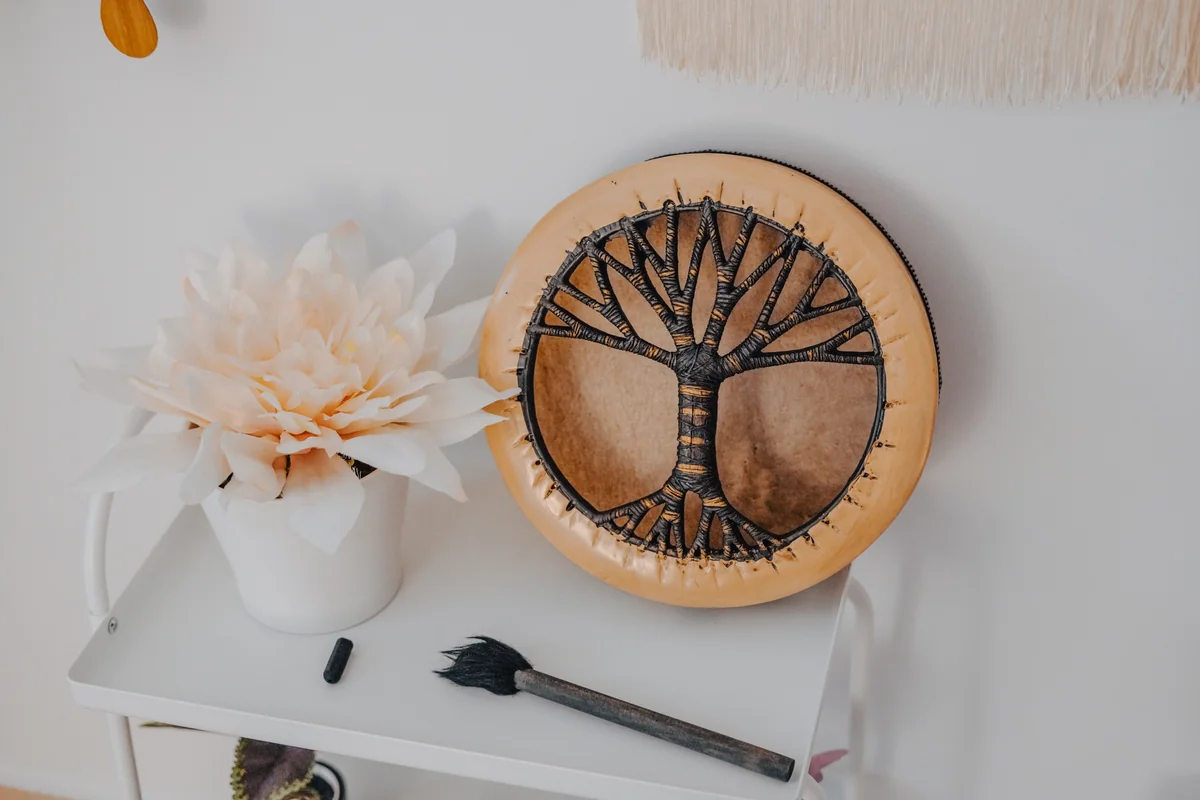
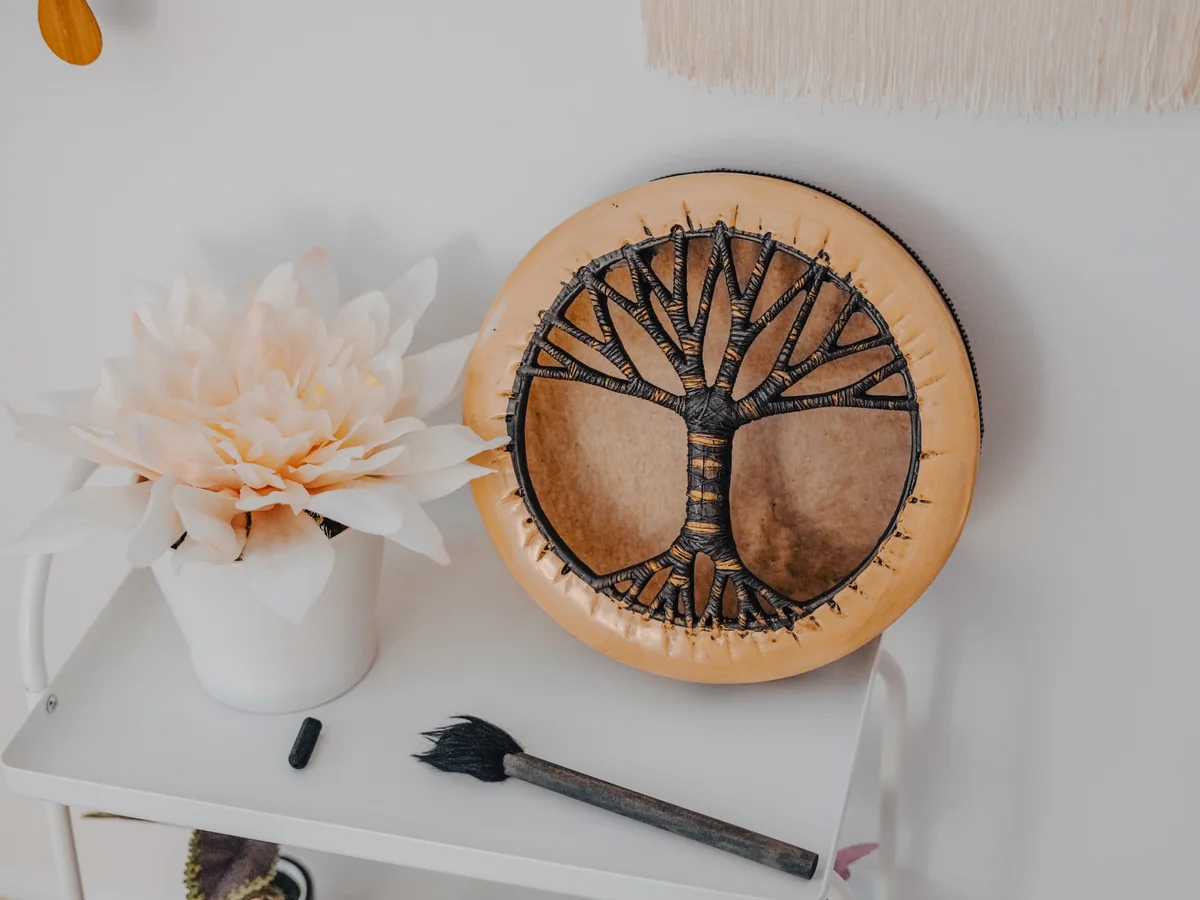
fix: adjust notrehistoire image to show more of the top portion

diff --git a/scripts/optimize-images.js b/scripts/optimize-images.js
@@ -28,9 +28,9 @@ async function optimizeImages() {
     // Optimize notrehistoire.png
     console.log('Optimizing notrehistoire.png...');
     await sharp('public/images/notrehistoire.png')
-      .resize(1200, 800, {
+      .resize(1200, 900, {
         fit: 'cover',
-        position: 'center'
+        position: 'top'
       })
       .webp({
         quality: 85,
